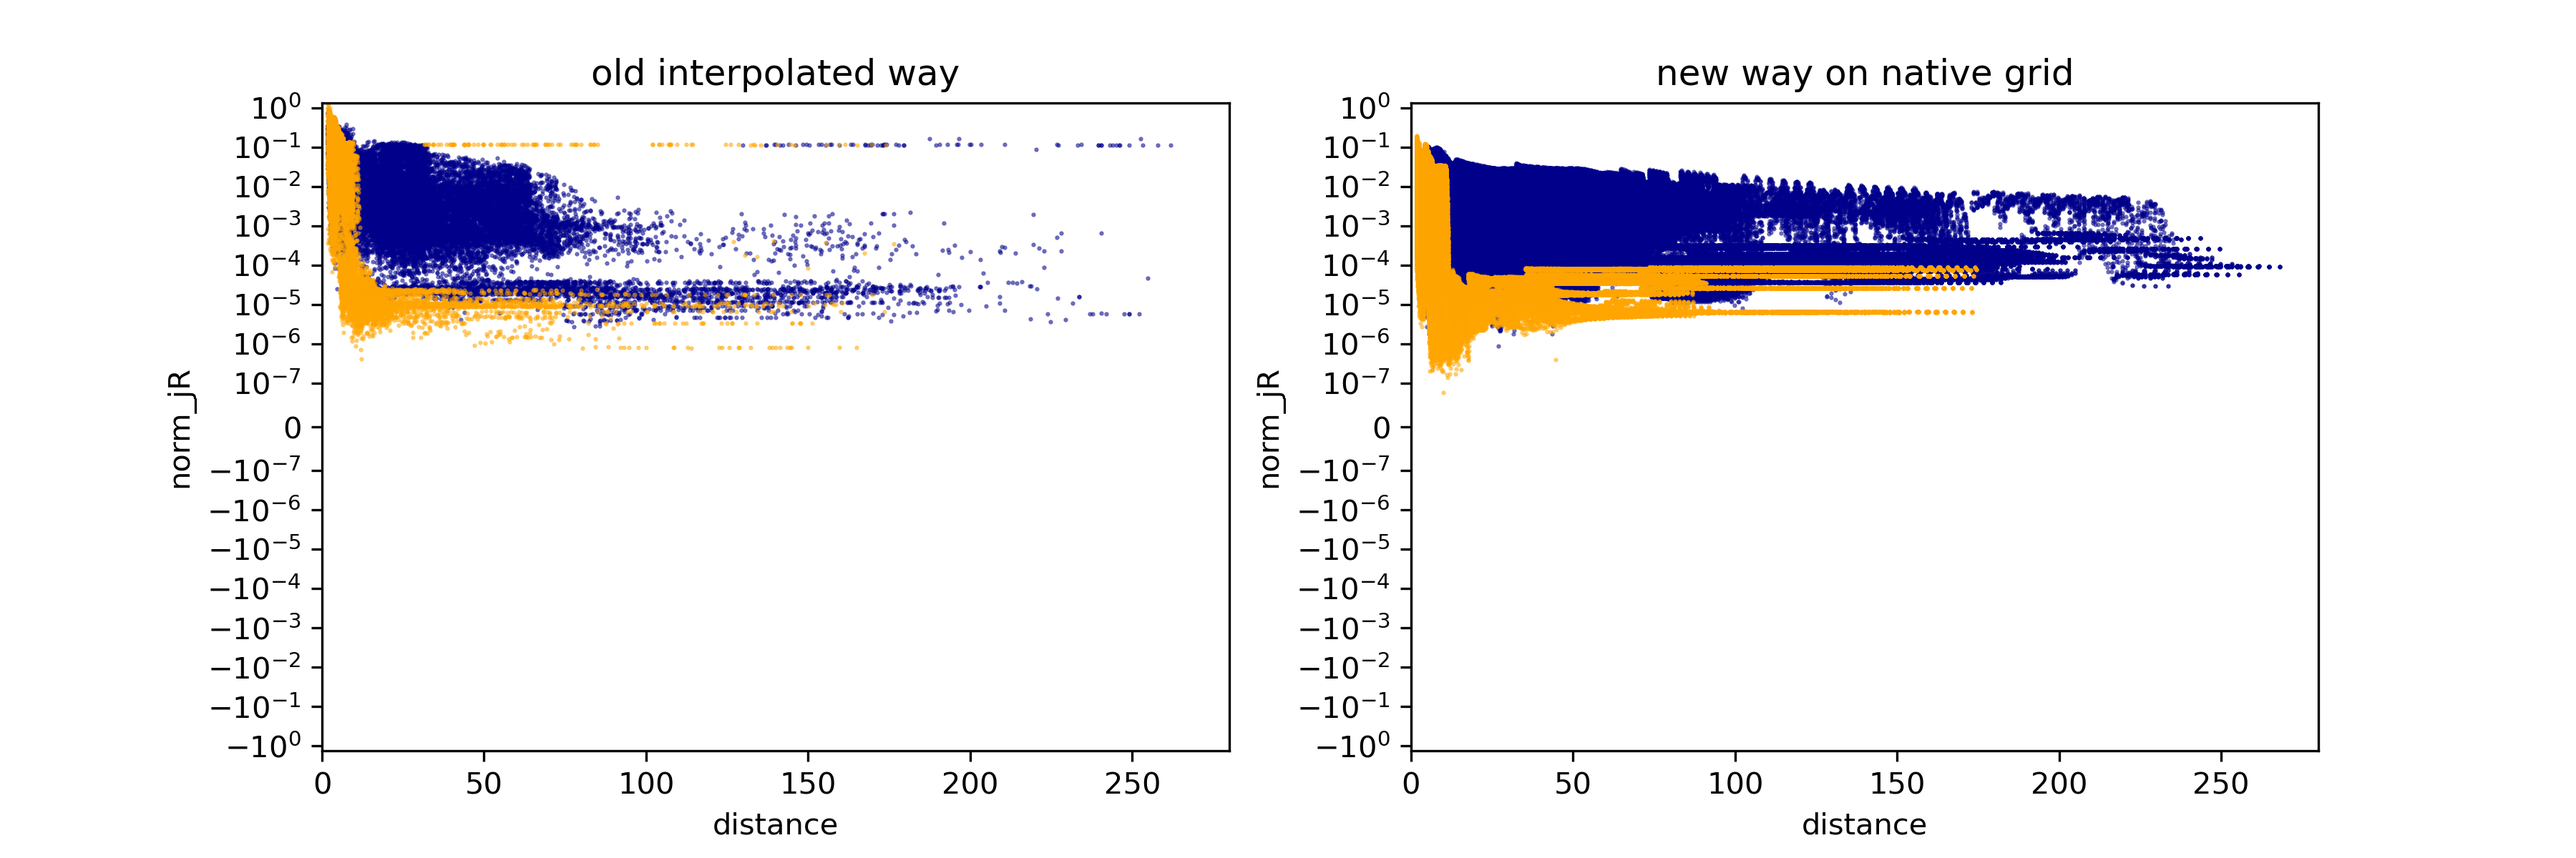
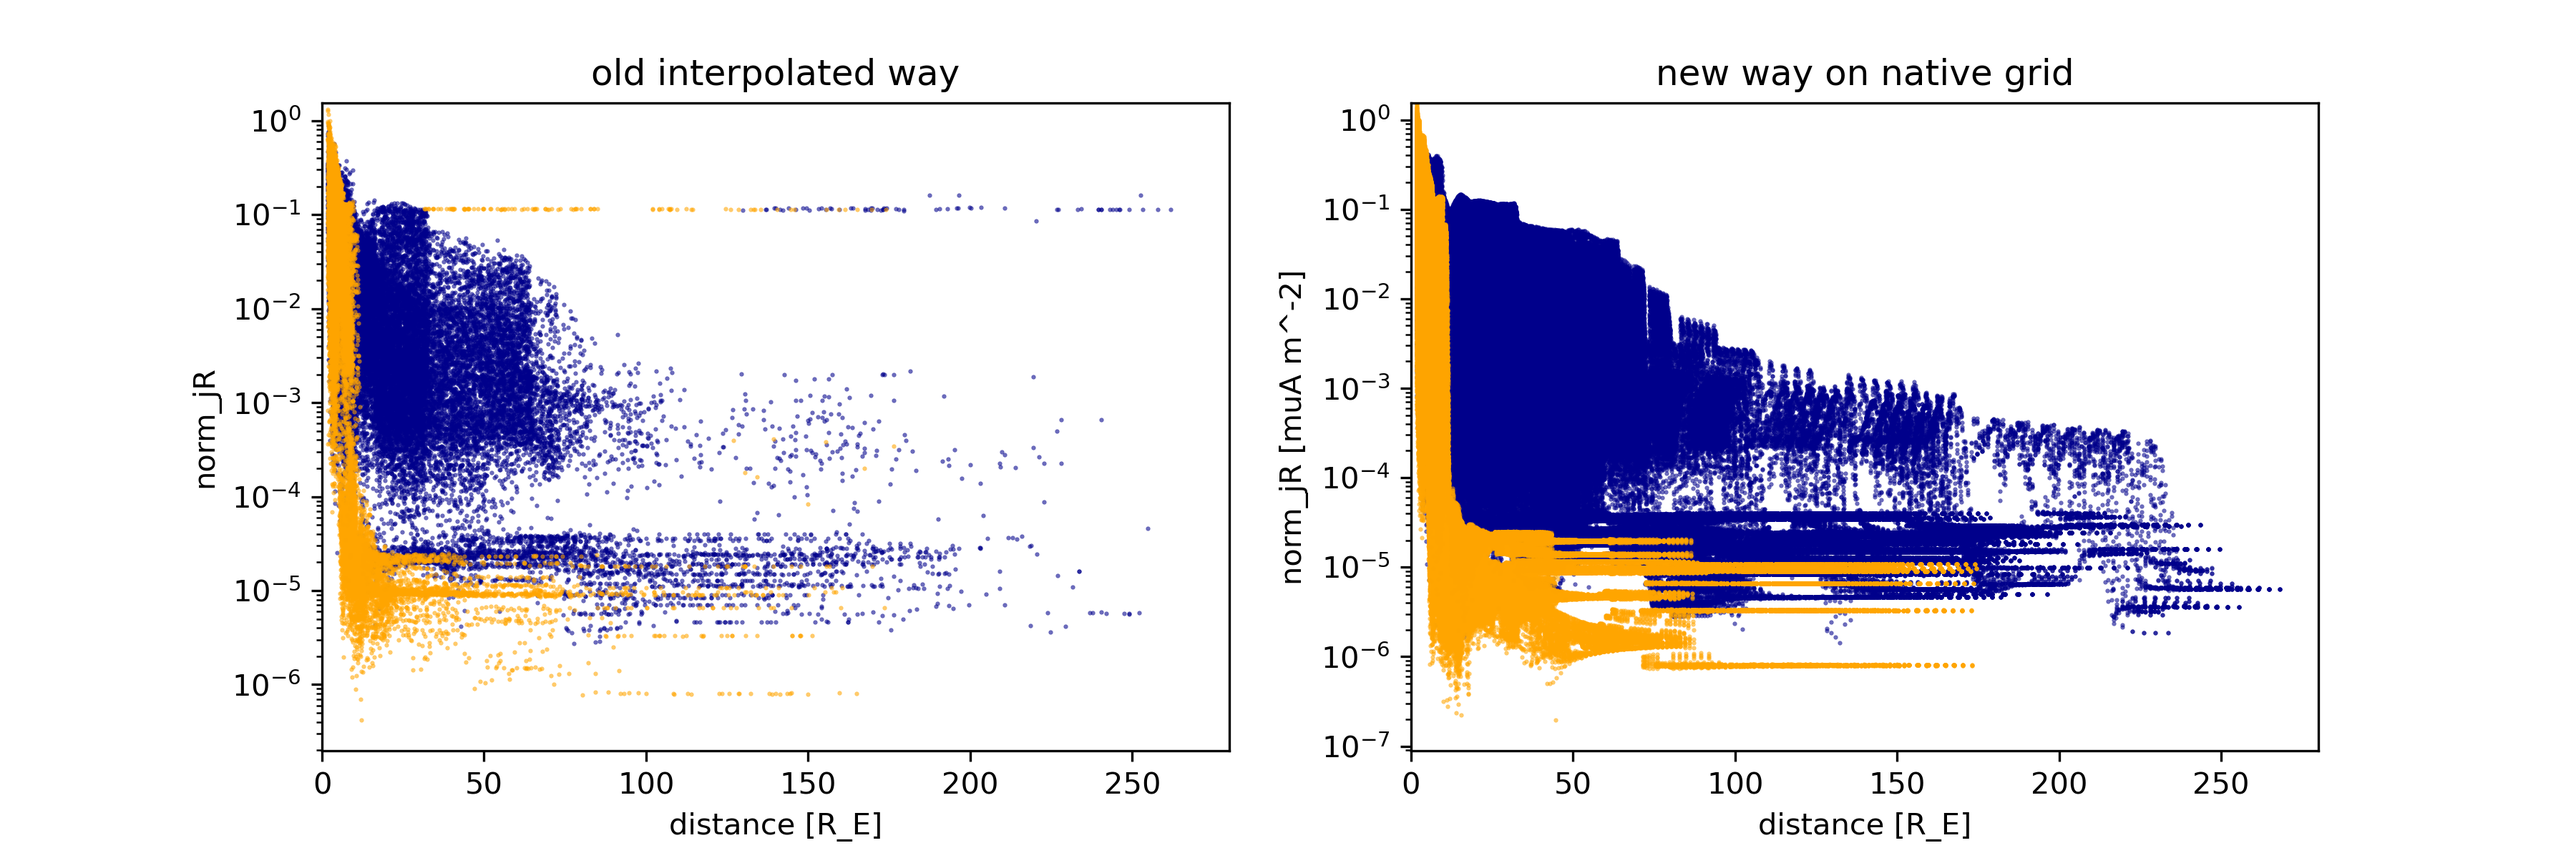
fixed forgetting to divide by 2*epsilon

diff --git a/derivatives/native_grid4.py b/derivatives/native_grid4.py
@@ -1,0 +1,138 @@
+import os
+import sys
+import numpy as np
+import pandas as pd
+sys.path.append(os.path.dirname(os.path.abspath(__file__)) + '/../')
+from config import conf
+import util
+from units_and_constants import phys
+
+sys.path.append(os.path.dirname(os.path.abspath(__file__)) + '/../swmf/')
+import read_swmf_files as rswmf
+
+
+##################
+run = 'DIPTSUR2'
+debug = True
+
+if run == 'DIPTSUR2':
+    time = (2019,9,2,6,30,0,0)
+    #time = (2019,9,2,4,10,0,0)
+if run == 'IMP10_RUN_SAMPLE':
+    time = (2019,9,2,7,0,0,0)
+if run == 'TESTANALYTIC':
+    time = (2000,1,1,0,10,0,0)
+if run == 'LUHMANN1979':
+    time = (2000,1,1,0,0,0,0)
+##################
+
+
+if debug: print('filetag '+util.time2CDFfilename(run,time)[:-8])
+data, dTREE, ind, block2node, node2block = rswmf.read_all(util.time2CDFfilename(run,time)[:-8])
+nBlock, nI, nJ, nK = block2node.size, dTREE['nI'], dTREE['nJ'], dTREE['nK']
+block_data = {}
+for key in 'x y z jx jy jz bx by bz b1x b1y b1z'.split(' '):
+    block_data[key] = data[key][ind].reshape((nBlock, nI, nJ, nK))
+
+gridspacing = np.zeros((nBlock, nI, nJ, nK), dtype=np.float32)
+epsilons = block_data['x'][:,1,0,0]-block_data['x'][:,0,0,0]
+gridspacing[:,:,:,:] = epsilons[:,None,None,None]
+block_data['gridspacing'] = gridspacing
+
+for vvar in ['j','b','b1']:
+    print('computing partials for '+vvar)
+
+    partials = np.zeros((nBlock, nI, nI, nI, 3,3), dtype=np.float32)
+    for i in range(nI):
+        for j in range(nJ):
+            for k in range(nK):
+                if i == 0 or i == nI-1:
+                    partials[:,i,j,k, 0,0] = np.nan
+                    partials[:,i,j,k, 0,1] = np.nan
+                    partials[:,i,j,k, 0,2] = np.nan
+                else:
+                    partials[:,i,j,k, 0,0] = (block_data[vvar+'x'][:, i+1, j  , k  ] - block_data[vvar+'x'][:, i-1, j  , k  ])/(2*epsilons)
+                    partials[:,i,j,k, 0,1] = (block_data[vvar+'y'][:, i+1, j  , k  ] - block_data[vvar+'y'][:, i-1, j  , k  ])/(2*epsilons)
+                    partials[:,i,j,k, 0,2] = (block_data[vvar+'z'][:, i+1, j  , k  ] - block_data[vvar+'z'][:, i-1, j  , k  ])/(2*epsilons)
+
+                if j == 0 or j == nJ-1:
+                    partials[:,i,j,k, 1,0] = np.nan
+                    partials[:,i,j,k, 1,1] = np.nan
+                    partials[:,i,j,k, 1,2] = np.nan
+                else:
+                    partials[:,i,j,k, 1,0] = (block_data[vvar+'x'][:, i  , j+1, k  ] - block_data[vvar+'x'][:, i  , j-1, k  ])/(2*epsilons)
+                    partials[:,i,j,k, 1,1] = (block_data[vvar+'y'][:, i  , j+1, k  ] - block_data[vvar+'y'][:, i  , j-1, k  ])/(2*epsilons)
+                    partials[:,i,j,k, 1,2] = (block_data[vvar+'z'][:, i  , j+1, k  ] - block_data[vvar+'z'][:, i  , j-1, k  ])/(2*epsilons)
+
+                if k == 0 or k == nK-1:
+                    partials[:,i,j,k, 2,0] = np.nan
+                    partials[:,i,j,k, 2,1] = np.nan
+                    partials[:,i,j,k, 2,2] = np.nan
+                else:
+                    partials[:,i,j,k, 2,0] = (block_data[vvar+'x'][:, i  , j  , k+1] - block_data[vvar+'x'][:, i  , j  , k-1])/(2*epsilons)
+                    partials[:,i,j,k, 2,1] = (block_data[vvar+'y'][:, i  , j  , k+1] - block_data[vvar+'y'][:, i  , j  , k-1])/(2*epsilons)
+                    partials[:,i,j,k, 2,2] = (block_data[vvar+'z'][:, i  , j  , k+1] - block_data[vvar+'z'][:, i  , j  , k-1])/(2*epsilons)
+
+    print('starting derivatives for '+vvar)
+
+    block_data['div_'+vvar] = partials[:,:,:,:,0,0]+partials[:,:,:,:,1,1]+partials[:,:,:,:,2,2]
+
+    curl_tens = partials - partials.transpose((0,1,2,3,5,4))
+    block_data['curl_'+vvar+'_x'] = curl_tens[:,:,:,:,1,2]
+    block_data['curl_'+vvar+'_y'] = curl_tens[:,:,:,:,2,0]
+    block_data['curl_'+vvar+'_z'] = curl_tens[:,:,:,:,0,1]
+
+unitmu0 = phys['mu0']*(phys['muA']/phys['m']**2)
+print(unitmu0)
+block_data['jRx'] = block_data['curl_b1_x']/unitmu0
+block_data['jRy'] = block_data['curl_b1_y']/unitmu0
+block_data['jRz'] = block_data['curl_b1_z']/unitmu0
+
+jRpartials = np.zeros((nBlock, nI, nI, nI, 3,3), dtype=np.float32)
+for i in range(nI):
+    for j in range(nJ):
+        for k in range(nK):
+            if i in [0, 1, nI-2, nI-1]:
+                jRpartials[:,i,j,k, 0,0] = np.nan
+                jRpartials[:,i,j,k, 0,1] = np.nan
+                jRpartials[:,i,j,k, 0,2] = np.nan
+            else:
+                jRpartials[:,i,j,k, 0,0] = (block_data['jRx'][:, i+1, j  , k  ] - block_data['jRx'][:, i-1, j  , k  ])/(2*epsilons)
+                jRpartials[:,i,j,k, 0,1] = (block_data['jRy'][:, i+1, j  , k  ] - block_data['jRy'][:, i-1, j  , k  ])/(2*epsilons)
+                jRpartials[:,i,j,k, 0,2] = (block_data['jRz'][:, i+1, j  , k  ] - block_data['jRz'][:, i-1, j  , k  ])/(2*epsilons)
+
+            if j in [0, 1, nJ-2, nJ-1]:
+                jRpartials[:,i,j,k, 1,0] = np.nan
+                jRpartials[:,i,j,k, 1,1] = np.nan
+                jRpartials[:,i,j,k, 1,2] = np.nan
+            else:
+                jRpartials[:,i,j,k, 1,0] = (block_data['jRx'][:, i  , j+1, k  ] - block_data['jRx'][:, i  , j-1, k  ])/(2*epsilons)
+                jRpartials[:,i,j,k, 1,1] = (block_data['jRy'][:, i  , j+1, k  ] - block_data['jRy'][:, i  , j-1, k  ])/(2*epsilons)
+                jRpartials[:,i,j,k, 1,2] = (block_data['jRz'][:, i  , j+1, k  ] - block_data['jRz'][:, i  , j-1, k  ])/(2*epsilons)
+
+            if k in [0, 1, nK-2, nK-1]:
+                jRpartials[:,i,j,k, 2,0] = np.nan
+                jRpartials[:,i,j,k, 2,1] = np.nan
+                jRpartials[:,i,j,k, 2,2] = np.nan
+            else:
+                jRpartials[:,i,j,k, 2,0] = (block_data['jRx'][:, i  , j  , k+1] - block_data['jRx'][:, i  , j  , k-1])/(2*epsilons)
+                jRpartials[:,i,j,k, 2,1] = (block_data['jRy'][:, i  , j  , k+1] - block_data['jRy'][:, i  , j  , k-1])/(2*epsilons)
+                jRpartials[:,i,j,k, 2,2] = (block_data['jRz'][:, i  , j  , k+1] - block_data['jRz'][:, i  , j  , k-1])/(2*epsilons)
+
+block_data['div_jR'] = jRpartials[:,:,:,:,0,0]+jRpartials[:,:,:,:,1,1]+jRpartials[:,:,:,:,2,2]
+
+for key in block_data.keys():
+    assert( block_data[key].shape == (nBlock,nI,nJ,nK) )
+
+for key in block_data.keys():
+    block_data[key] = block_data[key].ravel()
+
+df_ends_as_nan = pd.DataFrame.from_dict(block_data)
+
+
+direct = conf[run+'_derived']  \
+        + 'derivatives/%.2d%.2d%.2dT%.2d%.2d%.2d/native_grid/'%util.tpad(time, length=6)
+
+if not os.path.exists(direct): os.makedirs(direct)
+df_ends_as_nan.to_pickle(direct+'df_ends_as_nan.pkl')
+print('saved ' + direct+'df_ends_as_nan.pkl')

diff --git a/derivatives/derivatives.py b/derivatives/derivatives.py
@@ -127,6 +127,11 @@ def GetCurl(delF):
 
     return curlF
 
+def GetCurlV(delF):
+    curlF_tens = delF - delF.transpose((0,2,1))
+    curlF = np.column_stack([curlF_tens[:,1,2], curlF_tens[:,2,0], curlF_tens[:,0,1]])
+    return curlF
+
 def GetFrobeniusNormDel(delF):
     ret = np.nan*np.empty(delF.shape[0])
     for i in range(delF.shape[0]):

diff --git a/images/native_vs_interpolated/plots.md b/images/native_vs_interpolated/plots.md
@@ -1,6 +1,6 @@
 # Intro
 
-These plots are for from the DIPTSUR2 run.
+These plots are for the DIPTSUR2 run at 6:30.
 The 'old interpolated way' is using the VTK library interpolation, not Kameleon.
 
 b and b1 are in nanotesla, j in microamperes per meter squared. Divergence uses units of 1/R_E
@@ -16,21 +16,25 @@ In all the plots that follow, the dots are color coded based on
 whether the point is on the day side or the night side.
 Night side is Blue, Day side is Orange.
 
-## divergence of b1
-
-![](div_b1.png)
-
 ## divergence of b
 
 ![](div_b.png)
 
-## divergence of j
+## norm (magnitude) of b1
 
-![](div_j.png)
+![](norm_b1.png)
+
+## divergence of b1
+
+![](div_b1.png)
 
 ## norm (magnitude) of j
 
 ![](norm_j.png)
+
+## divergence of j
+
+![](div_j.png)
 
 ## norm (magnitude) of jR
 
